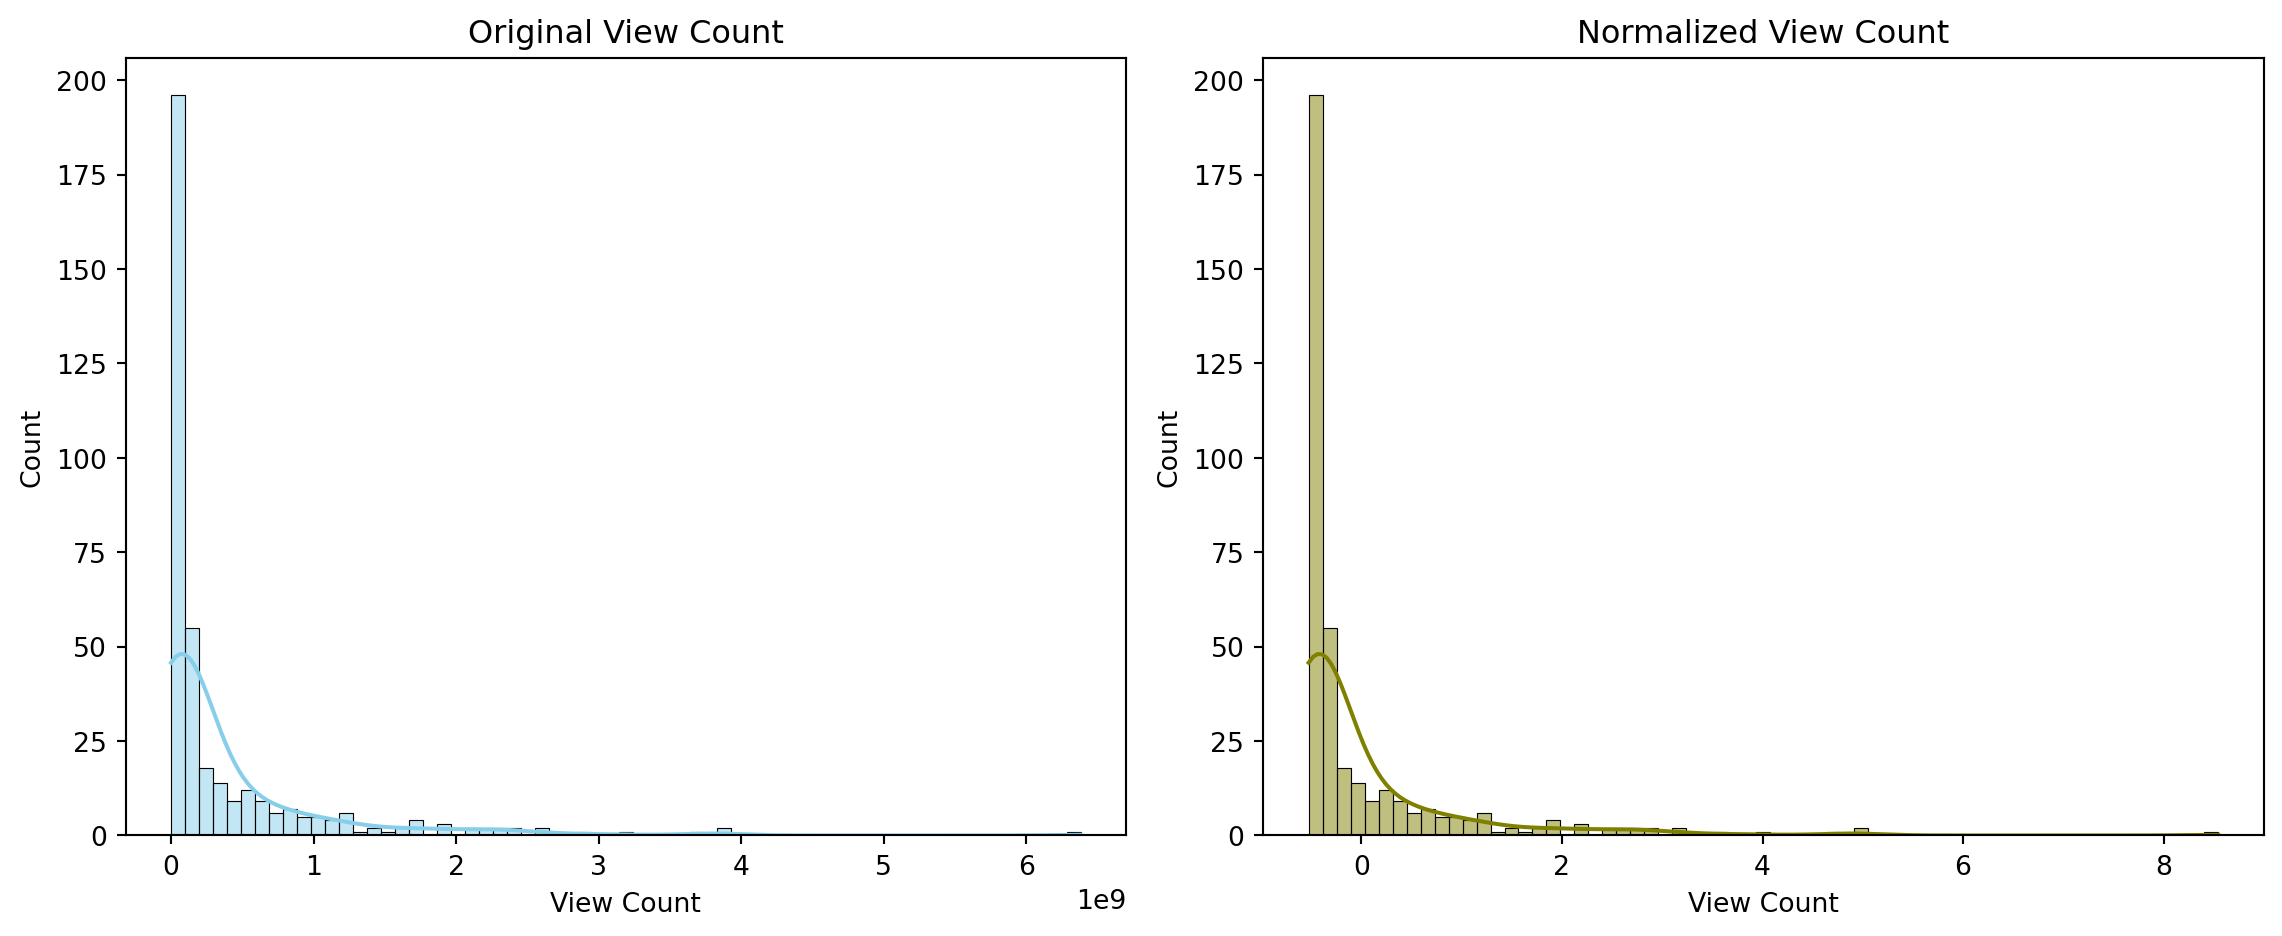
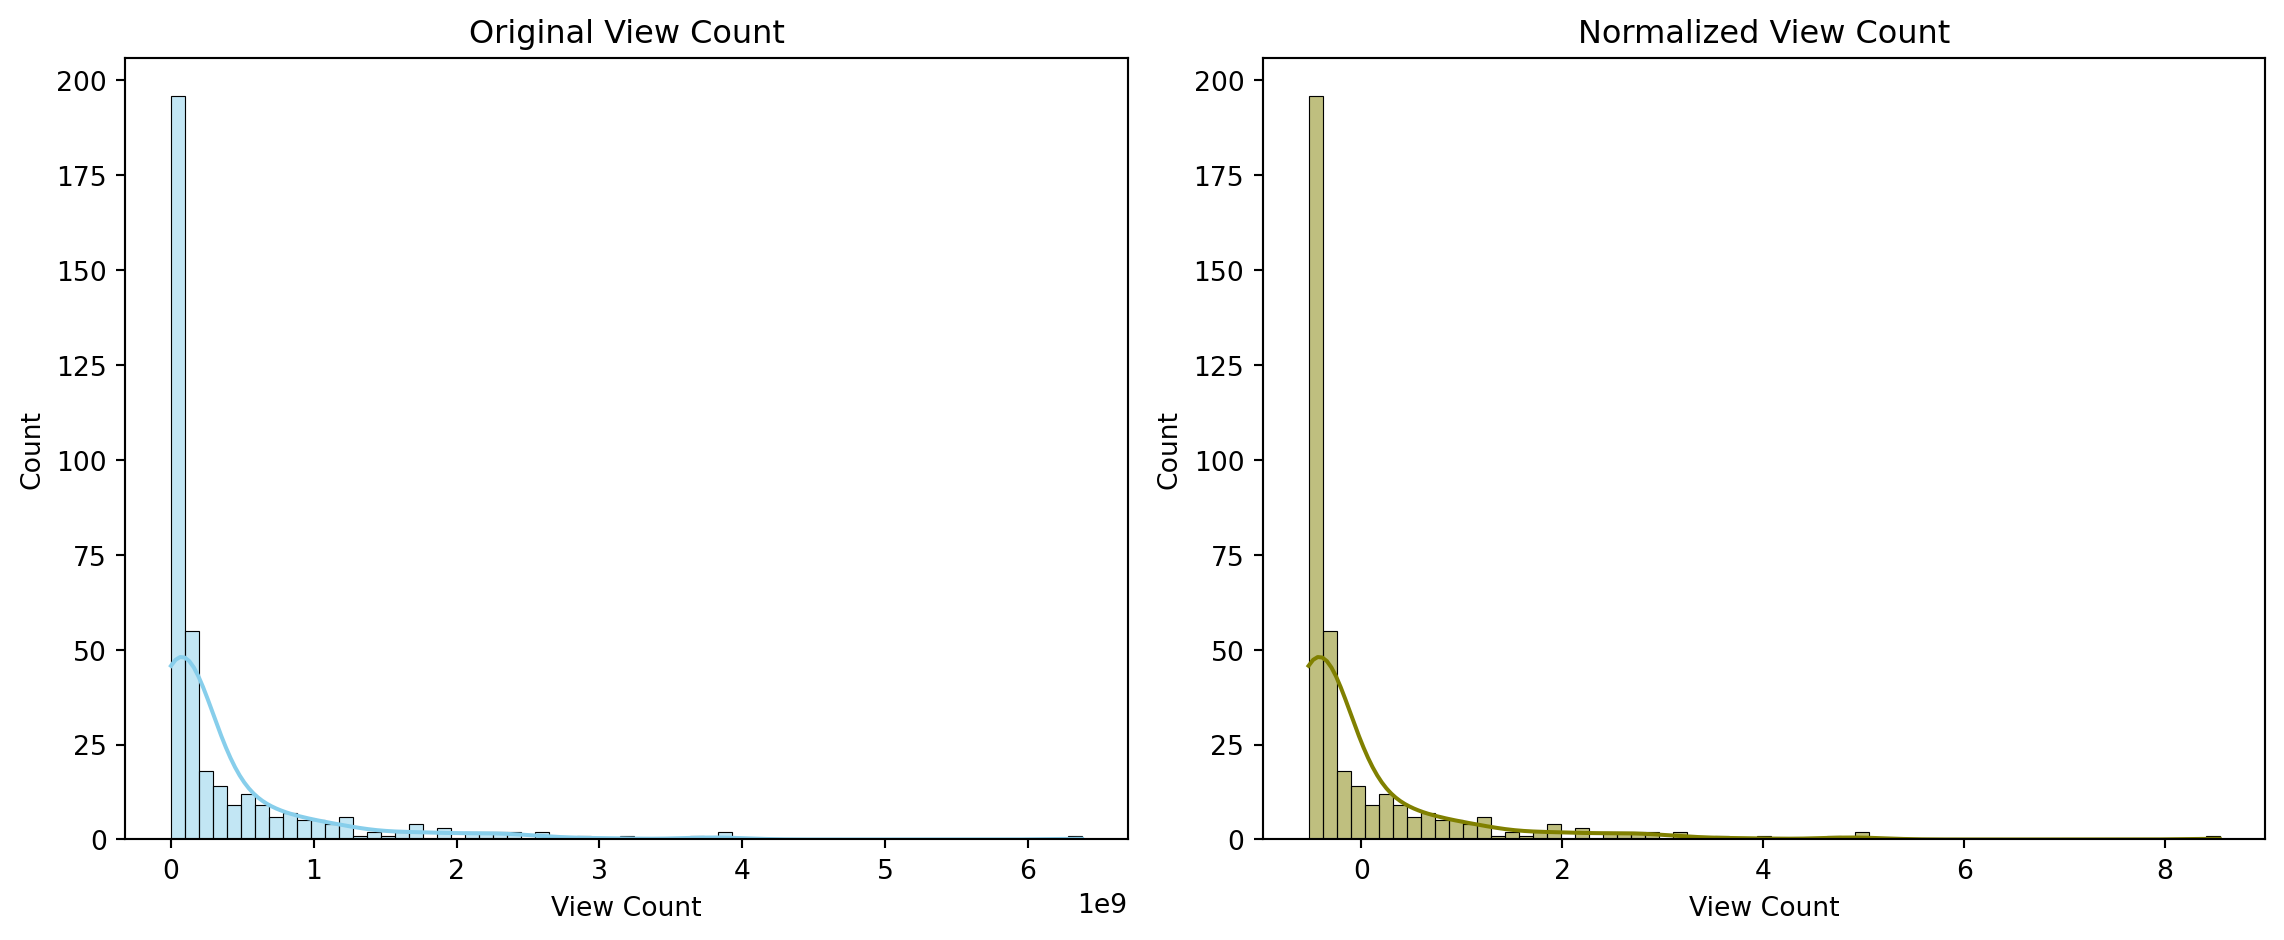
eda html v2

diff --git a/_site/technical-details/data-cleaning/instructions.html b/_site/technical-details/data-cleaning/instructions.html
@@ -2,7 +2,7 @@
 <html xmlns="http://www.w3.org/1999/xhtml" lang="en" xml:lang="en"><head>
 
 <meta charset="utf-8">
-<meta name="generator" content="quarto-1.5.57">
+<meta name="generator" content="quarto-1.6.39">
 
 <meta name="viewport" content="width=device-width, initial-scale=1.0, user-scalable=yes">
 
@@ -70,10 +70,10 @@ pre > code.sourceCode > span > a:first-child::before { text-decoration: underlin
 <script src="../../site_libs/quarto-html/tippy.umd.min.js"></script>
 <script src="../../site_libs/quarto-html/anchor.min.js"></script>
 <link href="../../site_libs/quarto-html/tippy.css" rel="stylesheet">
-<link href="../../site_libs/quarto-html/quarto-syntax-highlighting.css" rel="stylesheet" id="quarto-text-highlighting-styles">
+<link href="../../site_libs/quarto-html/quarto-syntax-highlighting-e26003cea8cd680ca0c55a263523d882.css" rel="stylesheet" id="quarto-text-highlighting-styles">
 <script src="../../site_libs/bootstrap/bootstrap.min.js"></script>
 <link href="../../site_libs/bootstrap/bootstrap-icons.css" rel="stylesheet">
-<link href="../../site_libs/bootstrap/bootstrap.min.css" rel="stylesheet" id="quarto-bootstrap" data-mode="light">
+<link href="../../site_libs/bootstrap/bootstrap-6bd9cfa162949bde0a231f530c97869d.min.css" rel="stylesheet" append-hash="true" id="quarto-bootstrap" data-mode="light">
 <script id="quarto-search-options" type="application/json">{
   "location": "navbar",
   "copy-button": false,
@@ -316,7 +316,7 @@ pre > code.sourceCode > span > a:first-child::before { text-decoration: underlin
 <section id="data-reading" class="level3">
 <h3 class="anchored" data-anchor-id="data-reading">Data Reading</h3>
 <p>The raw data is loaded from a CSV file using Pandas, which provides a convenient framework for data manipulation in Python.</p>
-<div id="581180dc" class="cell" data-execution_count="1">
+<div id="8e72c02c" class="cell" data-execution_count="1">
 <div class="sourceCode cell-code" id="cb1"><pre class="sourceCode python code-with-copy"><code class="sourceCode python"><span id="cb1-1"><a href="#cb1-1" aria-hidden="true" tabindex="-1"></a><span class="im">import</span> pandas <span class="im">as</span> pd</span>
 <span id="cb1-2"><a href="#cb1-2" aria-hidden="true" tabindex="-1"></a>df <span class="op">=</span> pd.read_csv(<span class="st">'../../data/raw-data/spotify_youtube.csv'</span>, encoding<span class="op">=</span><span class="st">'iso-8859-1'</span>)</span>
 <span id="cb1-3"><a href="#cb1-3" aria-hidden="true" tabindex="-1"></a>df.head()</span></code><button title="Copy to Clipboard" class="code-copy-button"><i class="bi"></i></button></pre></div>
@@ -510,7 +510,7 @@ pre > code.sourceCode > span > a:first-child::before { text-decoration: underlin
 </section>
 <section id="before-and-after-visualizations" class="level3">
 <h3 class="anchored" data-anchor-id="before-and-after-visualizations">Before-and-After Visualizations</h3>
-<div id="1f06c43a" class="cell" data-execution_count="2">
+<div id="10ecf983" class="cell" data-execution_count="2">
 <div class="sourceCode cell-code" id="cb6"><pre class="sourceCode python code-with-copy"><code class="sourceCode python"><span id="cb6-1"><a href="#cb6-1" aria-hidden="true" tabindex="-1"></a><span class="im">import</span> pandas <span class="im">as</span> pd</span>
 <span id="cb6-2"><a href="#cb6-2" aria-hidden="true" tabindex="-1"></a><span class="im">import</span> matplotlib.pyplot <span class="im">as</span> plt</span>
 <span id="cb6-3"><a href="#cb6-3" aria-hidden="true" tabindex="-1"></a><span class="im">import</span> seaborn <span class="im">as</span> sns</span>
@@ -543,21 +543,21 @@ pre > code.sourceCode > span > a:first-child::before { text-decoration: underlin
 <div class="cell-output cell-output-display">
 <div>
 <figure class="figure">
-<p><img src="instructions_files/figure-html/cell-3-output-1.png" width="1141" height="468" class="figure-img"></p>
+<p><img src="instructions_files/figure-html/cell-3-output-1.png" width="1142" height="470" class="figure-img"></p>
 </figure>
 </div>
 </div>
 <div class="cell-output cell-output-display">
 <div>
 <figure class="figure">
-<p><img src="instructions_files/figure-html/cell-3-output-2.png" width="1141" height="468" class="figure-img"></p>
+<p><img src="instructions_files/figure-html/cell-3-output-2.png" width="1142" height="470" class="figure-img"></p>
 </figure>
 </div>
 </div>
 <div class="cell-output cell-output-display">
 <div>
 <figure class="figure">
-<p><img src="instructions_files/figure-html/cell-3-output-3.png" width="1141" height="468" class="figure-img"></p>
+<p><img src="instructions_files/figure-html/cell-3-output-3.png" width="1142" height="470" class="figure-img"></p>
 </figure>
 </div>
 </div>
@@ -568,7 +568,7 @@ pre > code.sourceCode > span > a:first-child::before { text-decoration: underlin
 <h3 class="anchored" data-anchor-id="data-storage">Data Storage</h3>
 <p>The processed data is saved back to a CSV file, ensuring that all modifications are preserved for subsequent analysis.</p>
 <div class="sourceCode" id="cb7"><pre class="sourceCode python code-with-copy"><code class="sourceCode python"><span id="cb7-1"><a href="#cb7-1" aria-hidden="true" tabindex="-1"></a>df.to_csv(<span class="st">'../../data/processed-data/Normalized_Data_with_Sentiments.csv'</span>, index<span class="op">=</span><span class="va">False</span>)</span></code><button title="Copy to Clipboard" class="code-copy-button"><i class="bi"></i></button></pre></div>
-<div id="832c322b" class="cell" data-execution_count="3">
+<div id="fa340f0c" class="cell" data-execution_count="3">
 <div class="sourceCode cell-code" id="cb8"><pre class="sourceCode python code-with-copy"><code class="sourceCode python"><span id="cb8-1"><a href="#cb8-1" aria-hidden="true" tabindex="-1"></a>df <span class="op">=</span> pd.read_csv(<span class="st">'../../data/processed-data/Normalized_Data_with_Sentiments.csv'</span>)</span>
 <span id="cb8-2"><a href="#cb8-2" aria-hidden="true" tabindex="-1"></a>df.head()</span></code><button title="Copy to Clipboard" class="code-copy-button"><i class="bi"></i></button></pre></div>
 <div class="cell-output cell-output-display" data-execution_count="3">
@@ -985,8 +985,6 @@ window.document.addEventListener("DOMContentLoaded", function (event) {
   });
   clipboard.on('success', onCopySuccess);
   if (window.document.getElementById('quarto-embedded-source-code-modal')) {
-    // For code content inside modals, clipBoardJS needs to be initialized with a container option
-    // TODO: Check when it could be a function (https://github.com/zenorocha/clipboard.js/issues/860)
     const clipboardModal = new window.ClipboardJS('.code-copy-button[data-in-quarto-modal]', {
       text: getTextToCopy,
       container: window.document.getElementById('quarto-embedded-source-code-modal')
@@ -1097,7 +1095,6 @@ window.document.addEventListener("DOMContentLoaded", function (event) {
       if (window.Quarto?.typesetMath) {
         window.Quarto.typesetMath(note);
       }
-      // TODO in 1.5, we should make sure this works without a callout special case
       if (note.classList.contains("callout")) {
         return note.outerHTML;
       } else {

diff --git a/_site/technical-details/data-cleaning/main.html b/_site/technical-details/data-cleaning/main.html
@@ -2,7 +2,7 @@
 <html xmlns="http://www.w3.org/1999/xhtml" lang="en" xml:lang="en"><head>
 
 <meta charset="utf-8">
-<meta name="generator" content="quarto-1.5.57">
+<meta name="generator" content="quarto-1.6.39">
 
 <meta name="viewport" content="width=device-width, initial-scale=1.0, user-scalable=yes">
 
@@ -70,10 +70,10 @@ pre > code.sourceCode > span > a:first-child::before { text-decoration: underlin
 <script src="../../site_libs/quarto-html/tippy.umd.min.js"></script>
 <script src="../../site_libs/quarto-html/anchor.min.js"></script>
 <link href="../../site_libs/quarto-html/tippy.css" rel="stylesheet">
-<link href="../../site_libs/quarto-html/quarto-syntax-highlighting.css" rel="stylesheet" id="quarto-text-highlighting-styles">
+<link href="../../site_libs/quarto-html/quarto-syntax-highlighting-e26003cea8cd680ca0c55a263523d882.css" rel="stylesheet" id="quarto-text-highlighting-styles">
 <script src="../../site_libs/bootstrap/bootstrap.min.js"></script>
 <link href="../../site_libs/bootstrap/bootstrap-icons.css" rel="stylesheet">
-<link href="../../site_libs/bootstrap/bootstrap.min.css" rel="stylesheet" id="quarto-bootstrap" data-mode="light">
+<link href="../../site_libs/bootstrap/bootstrap-6bd9cfa162949bde0a231f530c97869d.min.css" rel="stylesheet" append-hash="true" id="quarto-bootstrap" data-mode="light">
 <script id="quarto-search-options" type="application/json">{
   "location": "navbar",
   "copy-button": false,
@@ -384,6 +384,7 @@ variables_to_visualize = ['View Count', 'Like Count', 'Subscriber Count']
 
 for variable in variables_to_visualize:
     plot_data_comparisons(df_original, df_normalized, variable)</code></pre>
+<p>The standardization has transformed the data into a scale where it is centered around zero, greatly reducing the range of values and making the distribution more compact. The normalization process highlights the underlying data structure more clearly by smoothing out extreme variations and focusing on the distribution’s shape, facilitating more effective data analysis and model training.</p>
 </section>
 <section id="data-storage" class="level3">
 <h3 class="anchored" data-anchor-id="data-storage">Data Storage</h3>
@@ -847,8 +848,6 @@ window.document.addEventListener("DOMContentLoaded", function (event) {
   });
   clipboard.on('success', onCopySuccess);
   if (window.document.getElementById('quarto-embedded-source-code-modal')) {
-    // For code content inside modals, clipBoardJS needs to be initialized with a container option
-    // TODO: Check when it could be a function (https://github.com/zenorocha/clipboard.js/issues/860)
     const clipboardModal = new window.ClipboardJS('.code-copy-button[data-in-quarto-modal]', {
       text: getTextToCopy,
       container: window.document.getElementById('quarto-embedded-source-code-modal')
@@ -959,7 +958,6 @@ window.document.addEventListener("DOMContentLoaded", function (event) {
       if (window.Quarto?.typesetMath) {
         window.Quarto.typesetMath(note);
       }
-      // TODO in 1.5, we should make sure this works without a callout special case
       if (note.classList.contains("callout")) {
         return note.outerHTML;
       } else {

diff --git a/_site/technical-details/eda/eda_test.html b/_site/technical-details/eda/eda_test.html
@@ -2,7 +2,7 @@
 <html xmlns="http://www.w3.org/1999/xhtml" lang="en" xml:lang="en"><head>
 
 <meta charset="utf-8">
-<meta name="generator" content="quarto-1.5.57">
+<meta name="generator" content="quarto-1.6.39">
 
 <meta name="viewport" content="width=device-width, initial-scale=1.0, user-scalable=yes">
 
@@ -70,10 +70,10 @@ pre > code.sourceCode > span > a:first-child::before { text-decoration: underlin
 <script src="../../site_libs/quarto-html/tippy.umd.min.js"></script>
 <script src="../../site_libs/quarto-html/anchor.min.js"></script>
 <link href="../../site_libs/quarto-html/tippy.css" rel="stylesheet">
-<link href="../../site_libs/quarto-html/quarto-syntax-highlighting.css" rel="stylesheet" id="quarto-text-highlighting-styles">
+<link href="../../site_libs/quarto-html/quarto-syntax-highlighting-e26003cea8cd680ca0c55a263523d882.css" rel="stylesheet" id="quarto-text-highlighting-styles">
 <script src="../../site_libs/bootstrap/bootstrap.min.js"></script>
 <link href="../../site_libs/bootstrap/bootstrap-icons.css" rel="stylesheet">
-<link href="../../site_libs/bootstrap/bootstrap.min.css" rel="stylesheet" id="quarto-bootstrap" data-mode="light">
+<link href="../../site_libs/bootstrap/bootstrap-6bd9cfa162949bde0a231f530c97869d.min.css" rel="stylesheet" append-hash="true" id="quarto-bootstrap" data-mode="light">
 <script id="quarto-search-options" type="application/json">{
   "location": "navbar",
   "copy-button": false,
@@ -184,7 +184,7 @@ pre > code.sourceCode > span > a:first-child::before { text-decoration: underlin
         
     </div>
 <!-- main -->
-<main class="content" id="quarto-document-content">
+<main class="content" id="quarto-document-content"><header id="title-block-header" class="quarto-title-block"></header>
 
 
 
@@ -1163,8 +1163,6 @@ window.document.addEventListener("DOMContentLoaded", function (event) {
   });
   clipboard.on('success', onCopySuccess);
   if (window.document.getElementById('quarto-embedded-source-code-modal')) {
-    // For code content inside modals, clipBoardJS needs to be initialized with a container option
-    // TODO: Check when it could be a function (https://github.com/zenorocha/clipboard.js/issues/860)
     const clipboardModal = new window.ClipboardJS('.code-copy-button[data-in-quarto-modal]', {
       text: getTextToCopy,
       container: window.document.getElementById('quarto-embedded-source-code-modal')
@@ -1275,7 +1273,6 @@ window.document.addEventListener("DOMContentLoaded", function (event) {
       if (window.Quarto?.typesetMath) {
         window.Quarto.typesetMath(note);
       }
-      // TODO in 1.5, we should make sure this works without a callout special case
       if (note.classList.contains("callout")) {
         return note.outerHTML;
       } else {

diff --git a/_site/technical-details/eda/main.html b/_site/technical-details/eda/main.html
@@ -2,7 +2,7 @@
 <html xmlns="http://www.w3.org/1999/xhtml" lang="en" xml:lang="en"><head>
 
 <meta charset="utf-8">
-<meta name="generator" content="quarto-1.5.57">
+<meta name="generator" content="quarto-1.6.39">
 
 <meta name="viewport" content="width=device-width, initial-scale=1.0, user-scalable=yes">
 
@@ -70,10 +70,10 @@ pre > code.sourceCode > span > a:first-child::before { text-decoration: underlin
 <script src="../../site_libs/quarto-html/tippy.umd.min.js"></script>
 <script src="../../site_libs/quarto-html/anchor.min.js"></script>
 <link href="../../site_libs/quarto-html/tippy.css" rel="stylesheet">
-<link href="../../site_libs/quarto-html/quarto-syntax-highlighting.css" rel="stylesheet" id="quarto-text-highlighting-styles">
+<link href="../../site_libs/quarto-html/quarto-syntax-highlighting-e26003cea8cd680ca0c55a263523d882.css" rel="stylesheet" id="quarto-text-highlighting-styles">
 <script src="../../site_libs/bootstrap/bootstrap.min.js"></script>
 <link href="../../site_libs/bootstrap/bootstrap-icons.css" rel="stylesheet">
-<link href="../../site_libs/bootstrap/bootstrap.min.css" rel="stylesheet" id="quarto-bootstrap" data-mode="light">
+<link href="../../site_libs/bootstrap/bootstrap-6bd9cfa162949bde0a231f530c97869d.min.css" rel="stylesheet" append-hash="true" id="quarto-bootstrap" data-mode="light">
 <script id="quarto-search-options" type="application/json">{
   "location": "navbar",
   "copy-button": false,
@@ -931,8 +931,6 @@ window.document.addEventListener("DOMContentLoaded", function (event) {
   });
   clipboard.on('success', onCopySuccess);
   if (window.document.getElementById('quarto-embedded-source-code-modal')) {
-    // For code content inside modals, clipBoardJS needs to be initialized with a container option
-    // TODO: Check when it could be a function (https://github.com/zenorocha/clipboard.js/issues/860)
     const clipboardModal = new window.ClipboardJS('.code-copy-button[data-in-quarto-modal]', {
       text: getTextToCopy,
       container: window.document.getElementById('quarto-embedded-source-code-modal')
@@ -1043,7 +1041,6 @@ window.document.addEventListener("DOMContentLoaded", function (event) {
       if (window.Quarto?.typesetMath) {
         window.Quarto.typesetMath(note);
       }
-      // TODO in 1.5, we should make sure this works without a callout special case
       if (note.classList.contains("callout")) {
         return note.outerHTML;
       } else {
